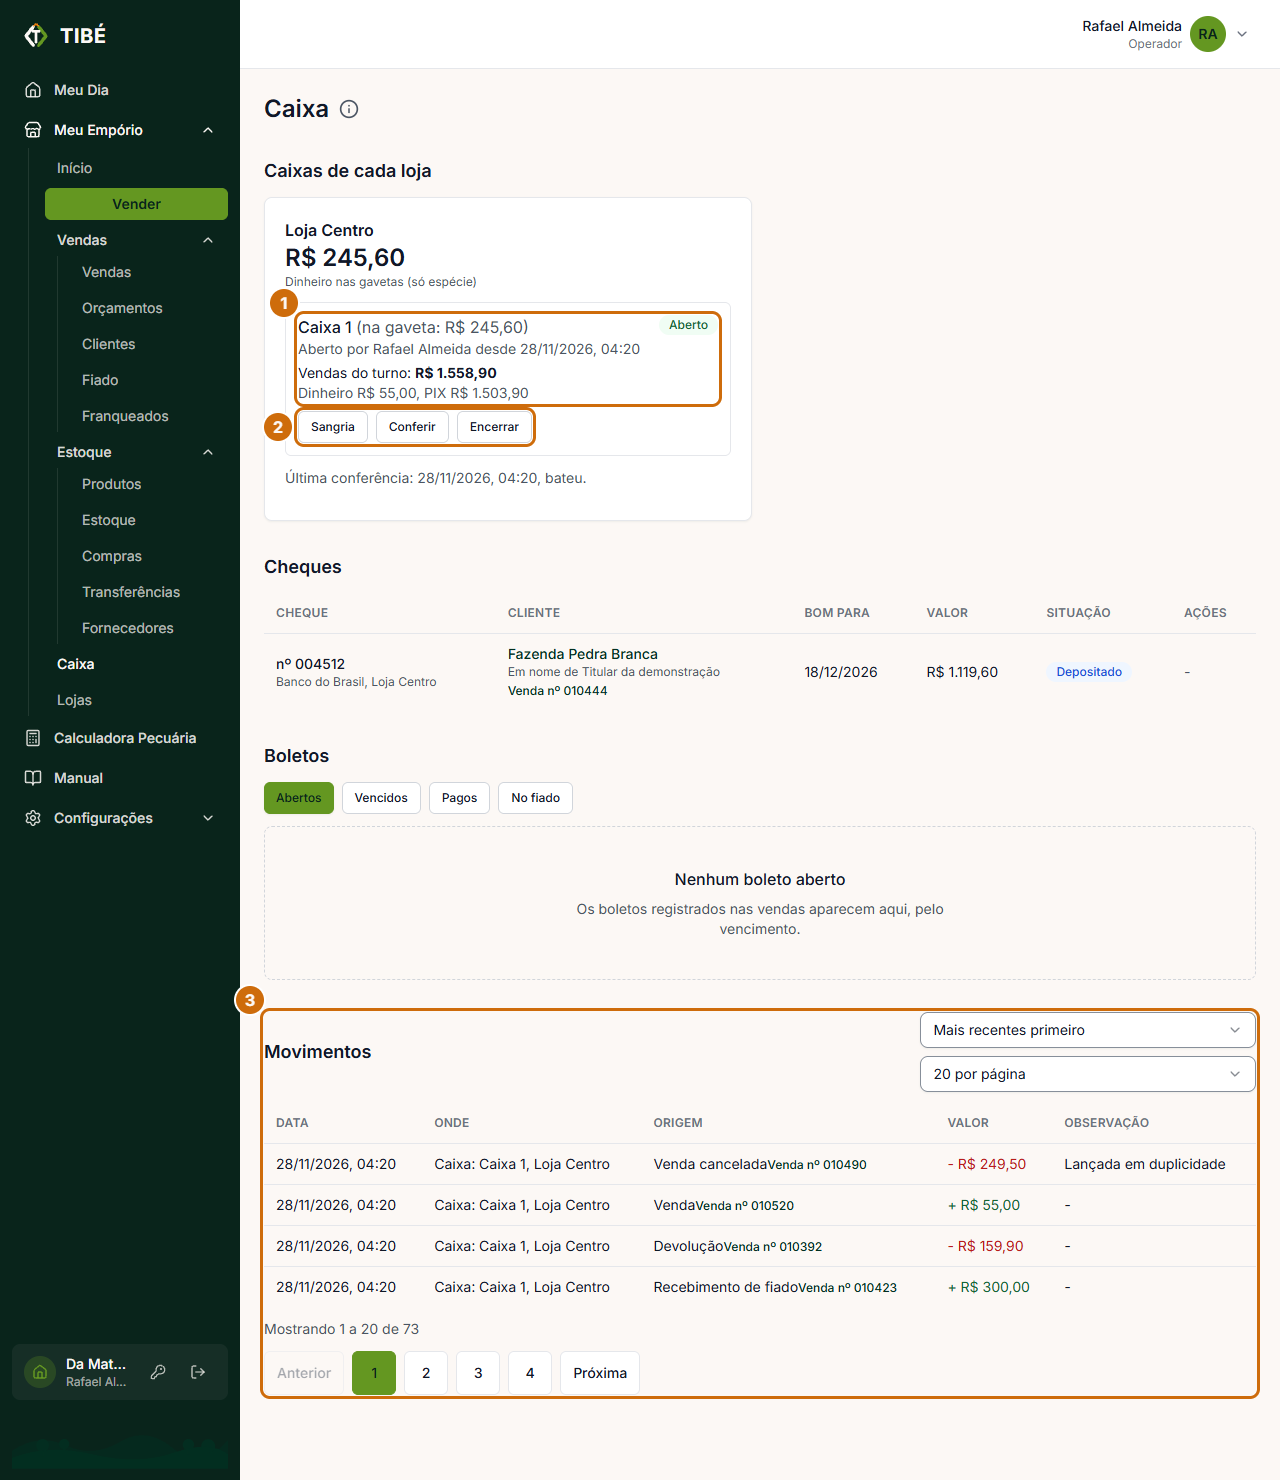
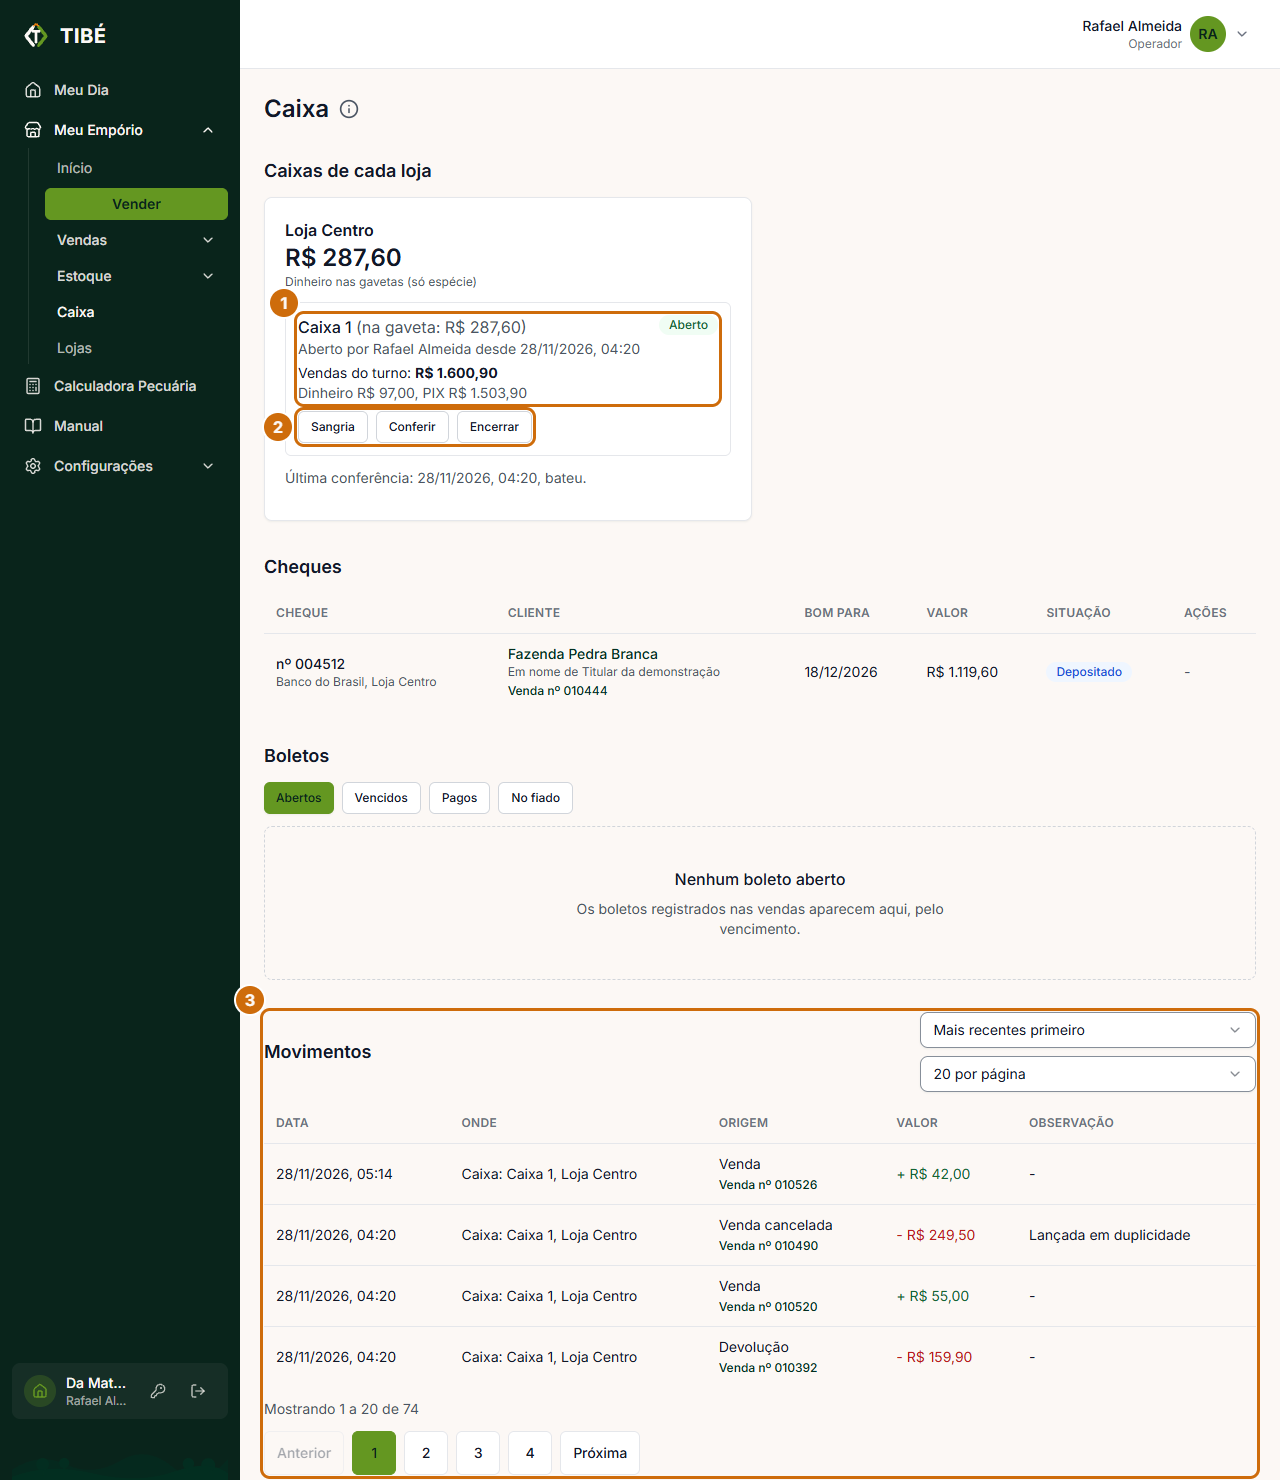
Onda 7: tres defeitos de tela que as fotos do manual mostraram
O valor do cartao Dinheiro nao quebra mais no meio do numero; o reforco
da gerencia diz de onde sai o dinheiro; a origem do movimento do Caixa
fica numa linha e o numero da venda embaixo (a celula forcava inline-flex
no link). Fotos caixa-abrir, caixa-gaveta e estatisticas-visao-geral
refeitas.

diff --git a/src/app/(dashboard)/emporio/_components/estatisticas-visao-geral.tsx b/src/app/(dashboard)/emporio/_components/estatisticas-visao-geral.tsx
@@ -96,8 +96,8 @@ function Grande({ valor, rotulo, classe = "text-texto" }: { valor: string; rotul
 function Linha({ rotulo, valor, classe = "text-texto" }: { rotulo: string; valor: string; classe?: string }) {
   return (
     <div className="flex items-baseline justify-between gap-3 border-t border-borda pt-2 text-sm">
-      <span className="text-texto-secundario">{rotulo}</span>
-      <span className={`min-w-0 break-words text-right font-medium ${classe}`}>{valor}</span>
+      <span className="min-w-0 text-texto-secundario">{rotulo}</span>
+      <span className={`max-w-[60%] shrink-0 break-words text-right font-medium ${classe}`}>{valor}</span>
     </div>
   );
 }

diff --git a/src/app/(dashboard)/emporio/caixa/page.tsx b/src/app/(dashboard)/emporio/caixa/page.tsx
@@ -651,7 +651,8 @@ export default async function CaixaPage({
                     </TableCell>
                     <TableCell>{onde}</TableCell>
                     <TableCell>
-                      {ORIGEM_CAIXA_ROTULO[m.origin] ?? m.origin}
+                      {/* Bloco porque a célula força inline-flex no link filho direto: sem ele, o link cola no rótulo. */}
+                      <span className="block">{ORIGEM_CAIXA_ROTULO[m.origin] ?? m.origin}</span>
                       {m.sale_id && m.sale_number != null ? (
                         <VendaLink id={m.sale_id} numero={m.sale_number} className="block text-xs" />
                       ) : m.sale_id ? (

diff --git a/src/app/(dashboard)/emporio/_components/abrir-turno-form.tsx b/src/app/(dashboard)/emporio/_components/abrir-turno-form.tsx
@@ -128,7 +128,7 @@ export function AbrirTurnoForm({
         label="Reforço da gerência (R$)"
         id={err.idDe("reinforcement")}
         error={err.erros.reinforcement}
-        hint="Opcional. Sai de Com a gerência e entra no caixa."
+        hint="Opcional. Sai do saldo “Com a gerência” e entra no caixa."
       >
         {({ id, ...aria }) => (
           <MoneyInput
